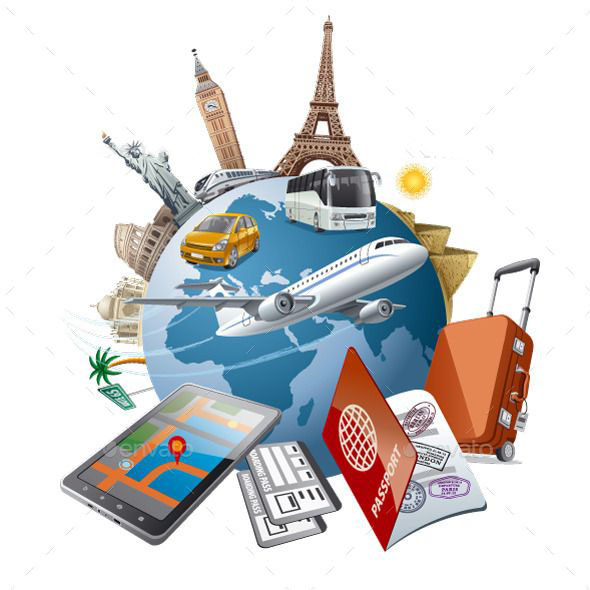
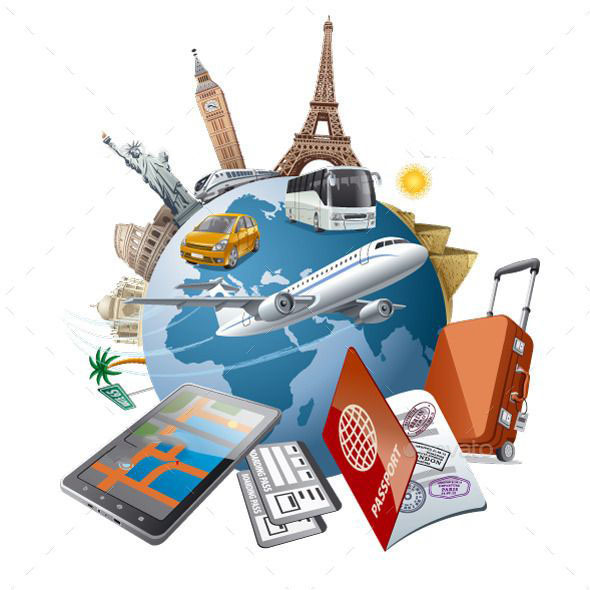
some minor alteratios on the mobile part

Changed region(s): [[0.1831, 0.7322, 0.3356, 0.7932]]

diff --git a/src/style/page/footer/footer.scss b/src/style/page/footer/footer.scss
@@ -1,7 +1,8 @@
 .footer {
   width: 100dvw;
   height: 60dvh;
-  background-color: #16476a;
+  background-color: #c5e3f6;
+  // background-color: #16476a;
   @media (min-width: 300px) {
     width: 100dvw;
     height: fit-content;
@@ -27,6 +28,31 @@
     margin-left: 6%;
     margin-right: 8%;
     margin-top: 5%;
+    @media (min-width: 300px) {
+      margin-top: 40px;
+      margin-left: 20%;
+      margin-right: 16%;
+    }
+    @media (min-width: 480px) {
+      margin-top: 40px;
+      margin-left: 20%;
+      margin-right: 16%;
+    }
+    @media (min-width: 768px) {
+      margin-top: 40px;
+      margin-left: 20%;
+      margin-right: 16%;
+    }
+    @media (min-width: 1024px) {
+      // margin-top: 40px;
+      margin-left: 6%;
+      margin-right: 8%;
+    }
+    @media (min-width: 1200px) {
+      // margin-top: 0px;
+      margin-left: 6%;
+      margin-right: 8%;
+    }
     .footercontainer {
       display: flex;
       flex-direction: column;
@@ -66,15 +92,28 @@
           width: 20%;
           display: flex;
           height: 80%;
-
+          // background-color: red;
           flex-direction: column;
-          span {
-            font-size: 38px;
-            color: white;
-            font-family: "GeraldtonBlack";
-            margin-bottom: 20px;
+          @media (min-width: 300px) {
+            width: 100%;
+          }
+          @media (min-width: 480px) {
+            width: 100%;
+          }
+          @media (min-width: 768px) {
+            width: 100%;
+            // display: none;
+          }
+          @media (min-width: 1024px) {
+            width: unset;
+          }
+          @media (min-width: 1200px) {
+            width: unset;
+          }
+          .flowtravelicon {
             @media (min-width: 300px) {
-              font-size: 22px;
+              width: 140px;
+              height: 50px;
             }
             @media (min-width: 480px) {
               font-size: 22px;
@@ -90,13 +129,36 @@
               font-size: 38px;
             }
           }
+          span {
+            font-size: 38px;
+            color: #16476a;
+            font-family: "GeraldtonBlack";
+            margin-bottom: 20px;
+            @media (min-width: 300px) {
+              font-size: 28px;
+            }
+            @media (min-width: 480px) {
+              font-size: 28px;
+            }
+            @media (min-width: 768px) {
+              font-size: 28px;
+              // display: none;
+            }
+            @media (min-width: 1024px) {
+              font-size: 38px;
+            }
+            @media (min-width: 1200px) {
+              font-size: 38px;
+            }
+          }
           .coulms {
             display: flex;
             flex-direction: column;
+            // width: 100%;
             span {
               font-size: 20px;
               font-family: "GeraldtonMedium";
-              color: white;
+              color: #16476a;
               @media (min-width: 300px) {
                 font-size: 16px;
               }
@@ -117,10 +179,12 @@
           }
           .icons {
             display: flex;
+            width: 100%;
+            // background-color: red;
             span {
               font-size: 20px;
               font-family: "GeraldtonMedium";
-              color: white;
+              color: #16476a;
               @media (min-width: 300px) {
                 font-size: 16px;
               }
@@ -150,7 +214,7 @@
         span {
           font-size: 20px;
           font-family: "GeraldtonMedium";
-          color: white;
+          color: #16476a;
           @media (min-width: 300px) {
             font-size: 16px;
           }

diff --git a/src/style/page/features/features.scss b/src/style/page/features/features.scss
@@ -161,25 +161,44 @@
           height: 30%;
           align-items: center;
           @media (min-width: 300px) {
+            display: flex;
+            flex-direction: column;
             width: 100%;
             margin-bottom: 10px;
+
+            justify-content: center;
           }
           @media (min-width: 480px) {
+            display: flex;
+            flex-direction: column;
             width: 100%;
-            margin-bottom: 10px;
+            margin-bottom: 20px;
+
+            justify-content: center;
           }
           @media (min-width: 768px) {
+            display: flex;
+            flex-direction: column;
             width: 100%;
-            margin-bottom: 10px;
+            margin-bottom: 20px;
+
+            justify-content: center;
             // display: none;
           }
           @media (min-width: 1024px) {
+            display: flex;
+            flex-direction: row;
             width: 40%;
             height: 40%;
+            justify-content: unset;
           }
+
           @media (min-width: 1200px) {
+            display: flex;
+            flex-direction: row;
             width: 40%;
             height: 40%;
+            justify-content: unset;
           }
           .icons {
             height: 100px;
@@ -189,6 +208,31 @@
           .listdescription {
             font-size: 16px;
             font-family: "Bellota-Regular";
+            margin-bottom: 20px;
+            @media (min-width: 300px) {
+              text-align: center;
+              margin-bottom: 20px;
+              padding: 3% 3%;
+            }
+            @media (min-width: 480px) {
+              text-align: center;
+              margin-bottom: 20px;
+              padding: 3% 3%;
+            }
+            @media (min-width: 768px) {
+              text-align: center;
+              margin-bottom: 20px;
+              padding: 3% 3%;
+              // display: none;
+            }
+            @media (min-width: 1024px) {
+              text-align: unset;
+              margin-bottom: 0px;
+            }
+            @media (min-width: 1200px) {
+              text-align: unset;
+              margin-bottom: 0px;
+            }
           }
         }
       }

diff --git a/src/style/page/home/home.scss b/src/style/page/home/home.scss
@@ -184,19 +184,24 @@
             color: white;
             font-family: "GeraldtonMedium";
             @media (min-width: 300px) {
+              font-size: 16px;
               margin-bottom: 30px;
             }
             @media (min-width: 480px) {
+              font-size: 16px;
               margin-bottom: 30px;
             }
             @media (min-width: 768px) {
+              font-size: 16px;
               margin-bottom: 30px;
               // display: none;
             }
             @media (min-width: 1024px) {
+              font-size: 24px;
               margin-bottom: 0px;
             }
             @media (min-width: 1200px) {
+              font-size: 24px;
               margin-bottom: 0px;
             }
           }

diff --git a/src/page/footer/index.js b/src/page/footer/index.js
@@ -6,7 +6,11 @@ export default function Footer() {
         <div className="footercontainer">
           <div className="footerlist">
             <div className="individual">
-              <img src="/assets/flotravel-logo.png" alt="" />
+              <img
+                className="flowtravelicon"
+                src="/assets/flotravel-logo.png"
+                alt=""
+              />
               <div className="coulms">{/* <span>Click Happy.</span> */}</div>
             </div>
             <div className="individual">

diff --git a/src/page/home/index.js b/src/page/home/index.js
@@ -13,7 +13,7 @@ export default function Home() {
             <div className="applicationlink">
               {/* <img src="/assets/google.png" alt="" />
               <img src="/assets/ios.png" alt="" /> */}
-              <button>SIGNUP HERE</button>
+              <button>Signup here</button>
             </div>
           </div>
         </div>
